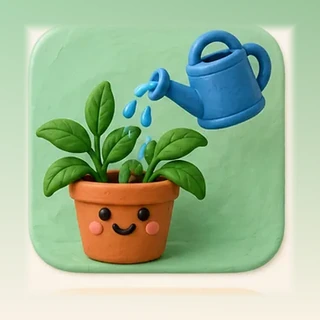
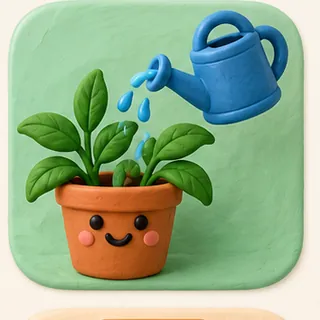
Restore approved ClayToon art and remove ghosted inner-card artifacts

diff --git a/src/lib/icons.tsx b/src/lib/icons.tsx
@@ -249,7 +249,7 @@ export function ChoreIcon({ name, size = 38, skin }: { name?: string; size?: num
       <img aria-hidden="true"
         className={`chore-icon-img chore-icon-img--skin chore-icon-img--${skin ?? activeSkin}`}
         loading="lazy"
-        src={`${import.meta.env.BASE_URL}${skinAsset}?full-frame=v3-subject87`}
+        src={`${import.meta.env.BASE_URL}${skinAsset}?full-frame=${(skin ?? activeSkin) === "claytoon" ? "v4-claytoon-restored" : "v3-subject87"}`}
         style={{ height: size, width: size }} />
     );
   }

diff --git a/public/chore-skins/README.md b/public/chore-skins/README.md
@@ -27,3 +27,7 @@ e sfondo coerente con i colori originali per gli altri set. La cornice rosa
 dell'app rimane un livello CSS in primo piano e non viene inclusa nei WebP.
 La trasformazione è eseguita una sola volta e registrata nel file
 `.subjects-padded-v1.json` per evitare ridimensionamenti ripetuti.
+
+### ClayToon — recupero versione approvata
+
+ClayToon è stato ripristinato alle 12 illustrazioni approvate prima del ridimensionamento globale: l'algoritmo aveva creato bordi fantasma e doppie cornici ai pannelli in plastilina. La cornice CSS rosa rimane sopra le icone. Gli altri quattro set conservano le loro modifiche. Una versione ClayToon con soggetti più piccoli richiede un vero intervento sullo sfondo e sugli oggetti, non il ridimensionamento dell'intera card.
